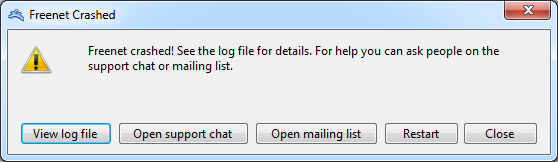
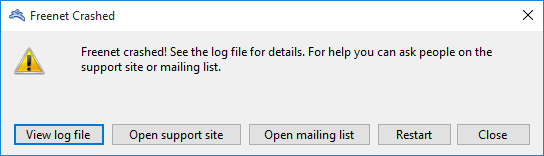
Replace crash dialog chat button with support site button

diff --git a/CrashDialog.cs b/CrashDialog.cs
@@ -47,7 +47,7 @@ namespace FreenetTray
 
         private void SupportChatButton_Click(object sender, EventArgs e)
         {
-            BrowserUtil.Open(new Uri("https://freenetproject.org/irc.html"));
+            BrowserUtil.Open(new Uri("https://freenetproject.org/help.html#support"));
         }
 
         private void MailingListButton_Click(object sender, EventArgs e)
